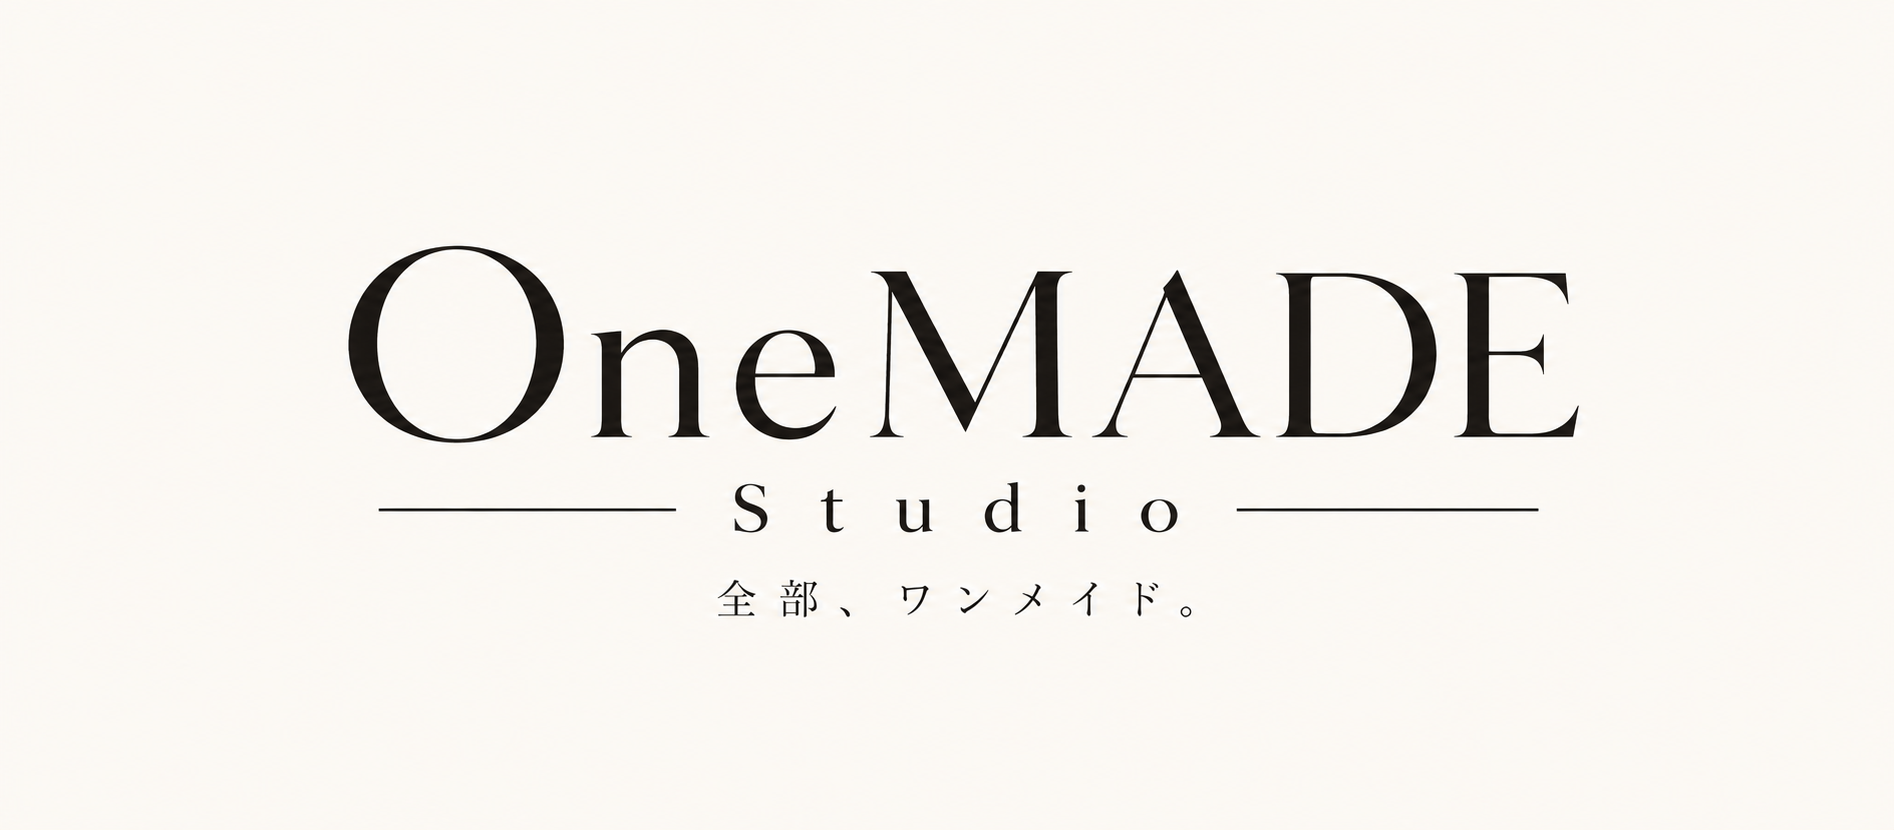
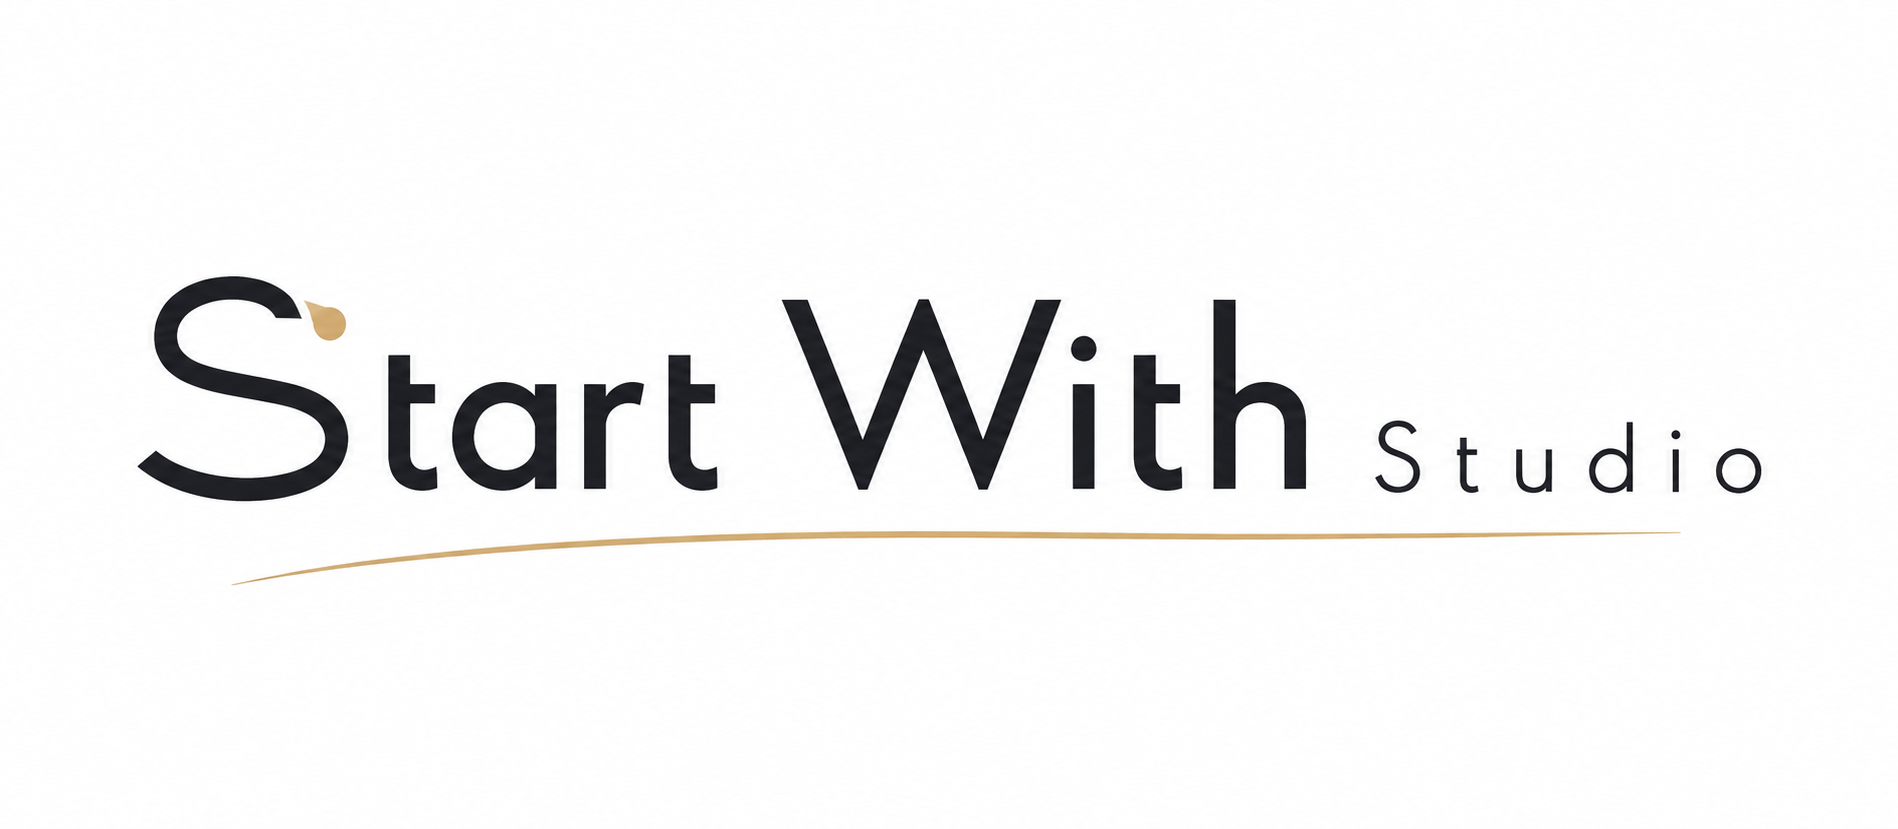
YuaStudioからOneMADE StudioへリブランドしたブランドをStart With Studioへ変更
サイト内のブランド表記(ヘッダー、フッター、About、SEO、OGP、依頼窓口の文言など)を全面的に「Start With Studio」に統一。キャッチコピーを「小さな一歩から、一緒につくる。」に変更し、ロゴのタイポグラフィ仮表示も「Start With」を強調する形に調整。既存のデザイン・セクション構成は維持。

diff --git a/data/content.ts b/data/content.ts
@@ -9,7 +9,7 @@ export const processSteps: ProcessStep[] = [
     step: 1,
     title: "お問い合わせ",
     description:
-      "まずはOneMADE Studioのフォームから、制作内容やご予算、納期などをお聞かせください。",
+      "まずはStart With Studioのフォームから、制作内容やご予算、納期などをお聞かせください。",
   },
   {
     step: 2,
@@ -20,13 +20,13 @@ export const processSteps: ProcessStep[] = [
     step: 3,
     title: "担当クリエイター決定",
     description:
-      "ご依頼内容に合わせて、OneMADE Studioから最適なクリエイターをアサインします。希望するクリエイターがいる場合は、ご相談いただけます。",
+      "ご依頼内容に合わせて、Start With Studioから最適なクリエイターをアサインします。希望するクリエイターがいる場合は、ご相談いただけます。",
   },
   {
     step: 4,
     title: "制作",
     description:
-      "担当クリエイターが制作を進めます。案件の窓口はOneMADE Studioが担当します。",
+      "担当クリエイターが制作を進めます。案件の窓口はStart With Studioが担当します。",
   },
   {
     step: 5,
@@ -60,9 +60,9 @@ export const reasons: Reason[] = [
 
 export const aboutContent = {
   paragraphs: [
-    "OneMADE Studioは、学生・若手クリエイターを中心とした小さなクリエイティブスタジオです。",
+    "Start With Studioは、学生・若手クリエイターを中心とした小さなクリエイティブスタジオです。",
     "音楽、映像、Web、デザイン、教育など、それぞれの得意分野を活かして制作します。",
-    "「制作会社に頼むほどではないけれど、自分だけで作るのは難しい。」そんな時に気軽に頼れる存在を目指しています。",
-    "ご依頼の受付からヒアリング、担当クリエイターのアサイン、制作の進行、納品まで、OneMADE Studioが窓口として一貫してサポートします。",
+    "「つくりたい気持ちはあるけれど、何から始めればいいかわからない。」そんな小さな一歩に寄り添い、ここから一緒につくり始めます。",
+    "ご依頼の受付からヒアリング、担当クリエイターのアサイン、制作の進行、納品まで、Start With Studioが窓口として一貫してサポートします。",
   ],
 };

diff --git a/data/site.ts b/data/site.ts
@@ -1,19 +1,15 @@
 export const siteConfig = {
-  name: "OneMADE Studio",
-  catchCopy: "一人でつくる、から。一緒につくる、へ。",
-  catchCopyLines: ["一人でつくる、から。", "一緒につくる、へ。"],
-  description:
-    "音楽・映像・Web・デザイン・教育。学生や個人の方にも頼みやすい、小さなクリエイティブスタジオです。",
-  descriptionLines: [
-    "音楽・映像・Web・デザイン・教育。",
-    "学生や個人の方にも頼みやすい、小さなクリエイティブスタジオです。",
-  ],
-  seoTitle: "OneMADE Studio｜学生・若手クリエイターによる音楽・映像・Web制作スタジオ",
+  name: "Start With Studio",
+  catchCopy: "小さな一歩から、一緒につくる。",
+  catchCopyLines: ["小さな一歩から、", "一緒につくる。"],
+  description: "学生や個人の方にも頼みやすい、小さなクリエイティブスタジオ。",
+  descriptionLines: ["学生や個人の方にも頼みやすい、", "小さなクリエイティブスタジオ。"],
+  seoTitle: "Start With Studio｜学生・若手クリエイターによる音楽・映像・Web制作スタジオ",
   seoDescription:
-    "OneMADE Studioは、学生・若手クリエイターを中心とした小さなクリエイティブスタジオです。動画編集、ミックス・マスタリング、オリジナル楽曲制作、数学指導、教材制作、Webサイト制作、アカペラ楽譜制作など、それぞれの得意分野を持つクリエイターが制作を行います。",
+    "Start With Studioは、学生・若手クリエイターを中心とした小さなクリエイティブスタジオです。動画編集、ミックス・マスタリング、オリジナル楽曲制作、数学指導、教材制作、Webサイト制作、アカペラ楽譜制作など、それぞれの得意分野を持つクリエイターが制作を行います。",
   url: "https://yua-studio.vercel.app",
   contactEmail: "yua.office2560@gmail.com",
-  copyright: "© 2026 OneMADE Studio. All rights reserved.",
+  copyright: "© 2026 Start With Studio. All rights reserved.",
   social: {
     x: "https://x.com/yua_studio2560",
   },

diff --git a/components/contact/ContactForm.tsx b/components/contact/ContactForm.tsx
@@ -86,7 +86,7 @@ export default function ContactForm() {
   return (
     <form onSubmit={handleSubmit} className="flex flex-col gap-6">
       <p className="rounded-2xl bg-brand-blue-50 p-4 text-xs leading-relaxed text-foreground/70 sm:text-sm">
-        ご依頼・お見積もりはOneMADE Studioが窓口となって承ります。内容を確認したうえで、ご希望や制作内容に合ったクリエイターをご提案します。
+        ご依頼・お見積もりはStart With Studioが窓口となって承ります。内容を確認したうえで、ご希望や制作内容に合ったクリエイターをご提案します。
       </p>
 
       <div className="grid gap-6 sm:grid-cols-2">
@@ -144,7 +144,7 @@ export default function ContactForm() {
           onChange={(e) => setCreatorPreference(e.target.value)}
           className="rounded-xl border border-brand-blue-200 bg-white px-4 py-3 text-sm text-foreground outline-none focus:border-brand-navy-500"
         >
-          <option value="">{OMAKASE}(OneMADE Studioにおまかせ)</option>
+          <option value="">{OMAKASE}(Start With Studioにおまかせ)</option>
           {creators.map((creator) => (
             <option key={creator.slug} value={creator.slug}>
               {creator.name}
@@ -152,7 +152,7 @@ export default function ContactForm() {
           ))}
         </select>
         <span className="text-xs font-normal text-foreground/60">
-          特にご希望がなければ、内容に合わせてOneMADE Studioが担当クリエイターをご提案します。
+          特にご希望がなければ、内容に合わせてStart With Studioが担当クリエイターをご提案します。
         </span>
       </label>
 

diff --git a/app/contact/page.tsx b/app/contact/page.tsx
@@ -8,7 +8,7 @@ import { siteConfig } from "@/data/site";
 
 export const metadata: Metadata = {
   title: "Contact",
-  description: "OneMADE Studioへのお問い合わせはこちらから。ご相談だけでも歓迎しています。",
+  description: "Start With Studioへのお問い合わせはこちらから。ご相談だけでも歓迎しています。",
 };
 
 export default function ContactPage() {
@@ -18,7 +18,7 @@ export default function ContactPage() {
         <SectionHeading
           eyebrow="Contact"
           title="お問い合わせ"
-          description="依頼するかどうか決まっていない段階でのご相談も歓迎です。ご依頼・お見積もりはOneMADE Studioが窓口となって承ります。内容を確認したうえで、ご希望や制作内容に合ったクリエイターをご提案します。"
+          description="依頼するかどうか決まっていない段階でのご相談も歓迎です。ご依頼・お見積もりはStart With Studioが窓口となって承ります。内容を確認したうえで、ご希望や制作内容に合ったクリエイターをご提案します。"
         />
 
         <div className="grid gap-8 lg:grid-cols-3">

diff --git a/app/about/page.tsx b/app/about/page.tsx
@@ -8,18 +8,18 @@ import { aboutContent } from "@/data/content";
 export const metadata: Metadata = {
   title: "About",
   description:
-    "OneMADE Studioが目指している「つくりたい人」と「つくれる人」をつなぐクリエイティブスタジオのあり方について紹介しています。",
+    "Start With Studioが目指している「つくりたい人」と「つくれる人」をつなぐクリエイティブスタジオのあり方について紹介しています。",
 };
 
 export default function AboutPage() {
   return (
     <div className="py-16 sm:py-24">
       <Container className="flex flex-col items-center gap-10">
-        <SectionHeading eyebrow="About" title="OneMADE Studioについて" />
+        <SectionHeading eyebrow="About" title="Start With Studioについて" />
 
         <ImageWithFallback
           src="/images/about/about.png"
-          alt="OneMADE Studioについて"
+          alt="Start With Studioについて"
           wrapperClassName="aspect-[16/7] w-full max-w-2xl rounded-3xl shadow-soft"
         />
 

diff --git a/components/layout/Logo.tsx b/components/layout/Logo.tsx
@@ -9,7 +9,7 @@ type LogoProps = {
 };
 
 // ロゴ画像を public/images/brand/logo.png に置くと、そちらが自動的に優先表示されます。
-// 画像がない間は、タイポグラフィベースの仮ロゴ(OneMADE / Studio)を表示します。
+// 画像がない間は、タイポグラフィベースの仮ロゴ(Start With / Studio)を表示します。
 export default function Logo({ className = "" }: LogoProps) {
   const [imageFailed, setImageFailed] = useState(false);
 
@@ -30,8 +30,8 @@ export default function Logo({ className = "" }: LogoProps) {
 
   return (
     <span className={`font-display leading-none font-bold text-brand-navy-900 ${className}`}>
-      <span className="block text-lg sm:text-xl">OneMADE</span>
-      <span className="-mt-0.5 block text-xs tracking-[0.2em] text-brand-navy-500 sm:text-sm">
+      <span className="block text-lg sm:text-xl">Start With</span>
+      <span className="-mt-0.5 block text-xs font-medium tracking-[0.2em] text-brand-navy-500 sm:text-sm">
         STUDIO
       </span>
     </span>

diff --git a/data/creators.ts b/data/creators.ts
@@ -24,7 +24,7 @@ export const creators: Creator[] = [
     fields: ["Music", "Video", "Web", "Education"],
     bio: "音楽・映像・Web・教育など、分野を横断して制作しています。",
     profile: [
-      "OneMADE Studioの創設者。数学教育を学びながら、YouTube動画制作、音楽制作、Webサイト制作、教材制作など、複数の分野に取り組んできました。",
+      "Start With Studioの創設者。数学教育を学びながら、YouTube動画制作、音楽制作、Webサイト制作、教材制作など、複数の分野に取り組んできました。",
       "大学ではアカペラサークルに所属し、既存曲のアレンジや音源編集を経験。分野を横断しながら、依頼者の活動や表現に合った形を一緒に考えることを大切にしています。",
     ],
     image: "/images/creators/yua-icon.png",

diff --git a/components/home/ContactCta.tsx b/components/home/ContactCta.tsx
@@ -10,8 +10,8 @@ export default function ContactCta() {
             まずはお気軽にご相談ください
           </h2>
           <p className="max-w-xl text-sm leading-relaxed text-white/80 sm:text-base">
-            依頼するかどうか決まっていない段階でも大丈夫です。内容や予算感だけでも、お気軽にお問い合わせください。ご依頼・お見積もりはOneMADE
-            Studioが窓口となって承ります。
+            依頼するかどうか決まっていない段階でも大丈夫です。内容や予算感だけでも、お気軽にお問い合わせください。ご依頼・お見積もりはStart
+            With Studioが窓口です。
           </p>
           <Button href="/contact" variant="secondary" className="bg-white">
             問い合わせフォームへ

diff --git a/app/services/page.tsx b/app/services/page.tsx
@@ -9,7 +9,7 @@ import { categoryInfo, servicesByCategory, ServiceCategory } from "@/data/servic
 export const metadata: Metadata = {
   title: "Services",
   description:
-    "ミックス・マスタリング、動画編集、オリジナル楽曲制作、数学指導、教材制作、Webサイト制作、アカペラ楽譜制作など、OneMADE Studioが提供するサービス一覧です。",
+    "ミックス・マスタリング、動画編集、オリジナル楽曲制作、数学指導、教材制作、Webサイト制作、アカペラ楽譜制作など、Start With Studioが提供するサービス一覧です。",
 };
 
 const categoryOrder: ServiceCategory[] = ["Music", "Video & Design", "Education"];

diff --git a/components/home/CreatorsSection.tsx b/components/home/CreatorsSection.tsx
@@ -18,7 +18,7 @@ export default function CreatorsSection() {
             あなたの依頼に、ちょうどいいクリエイターを。
           </h3>
           <p className="text-sm leading-relaxed text-foreground/80">
-            OneMADE Studioには、それぞれ異なる得意分野を持つクリエイターが参加しています。ご相談内容に合わせて、ぴったりの担当者をご提案します。
+            Start With Studioには、それぞれ異なる得意分野を持つクリエイターが参加しています。ご相談内容に合わせて、ぴったりの担当者をご提案します。
           </p>
         </div>
 

diff --git a/data/creator.ts b/data/creator.ts
@@ -75,7 +75,7 @@ export const creatorSteps: CreatorStep[] = [
   {
     step: 2,
     title: "確認",
-    description: "OneMADE Studioでポートフォリオなどを確認します。",
+    description: "Start With Studioでポートフォリオなどを確認します。",
   },
   {
     step: 3,
@@ -85,7 +85,7 @@ export const creatorSteps: CreatorStep[] = [
   {
     step: 4,
     title: "案件の相談",
-    description: "条件に合いそうな案件が発生した際にOneMADE Studioから連絡します。",
+    description: "条件に合いそうな案件が発生した際にStart With Studioから連絡します。",
   },
   {
     step: 5,

diff --git a/components/home/AboutPreview.tsx b/components/home/AboutPreview.tsx
@@ -8,11 +8,11 @@ export default function AboutPreview() {
   return (
     <section className="py-20 sm:py-28">
       <Container className="flex flex-col items-center gap-8 text-center">
-        <SectionHeading eyebrow="About" title="OneMADE Studioについて" />
+        <SectionHeading eyebrow="About" title="Start With Studioについて" />
 
         <ImageWithFallback
           src="/images/about/about.png"
-          alt="OneMADE Studioについて"
+          alt="Start With Studioについて"
           wrapperClassName="aspect-[16/7] w-full max-w-xl rounded-3xl shadow-soft"
         />
 
